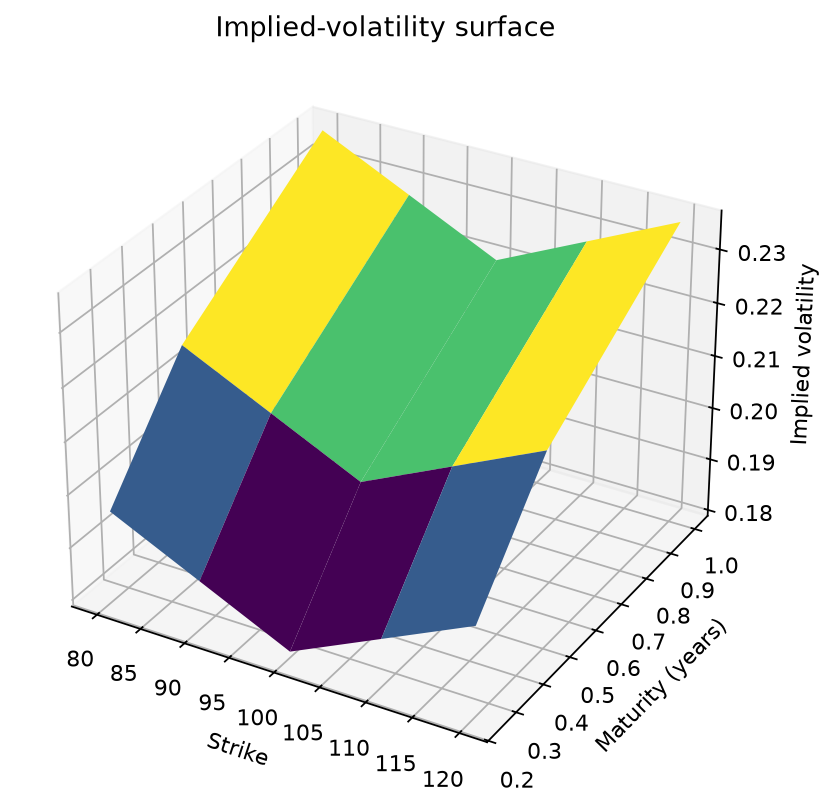
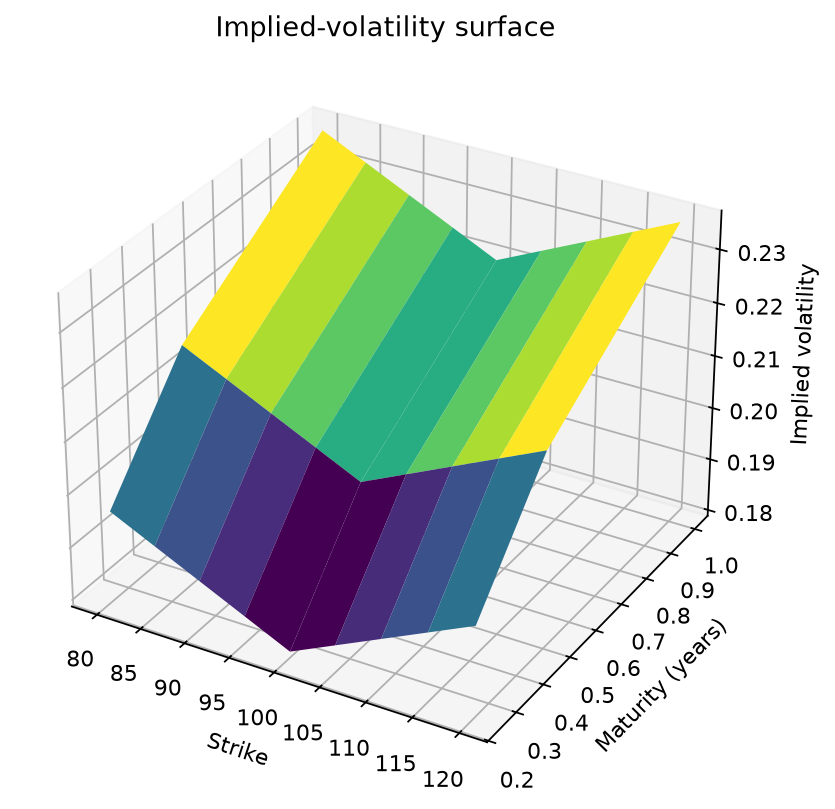
Increase implied volatility smile resolution

Changed region(s): [[0.218, 0.1854, 0.7784, 0.8035]]

diff --git a/examples/05_implied_volatility_smile.py b/examples/05_implied_volatility_smile.py
@@ -16,20 +16,21 @@ from options_pricer import (
 
 def main() -> None:
     spot = 100.0
+    strikes = tuple(range(80, 121, 5))
     rows = []
     for maturity, base_sigma in ((0.25, 0.18), (0.5, 0.20), (1.0, 0.22)):
-        for strike in (80.0, 90.0, 100.0, 110.0, 120.0):
+        for strike in strikes:
             sigma = base_sigma + 0.0008 * abs(strike - 100.0)
             option = EuropeanOption(
                 spot=spot,
-                strike=strike,
+                strike=float(strike),
                 maturity=maturity,
                 rate=0.03,
                 volatility=sigma,
             )
             rows.append(
                 {
-                    "strike": strike,
+                    "strike": float(strike),
                     "maturity": maturity,
                     "option_type": "call",
                     "price": black_scholes_price(option, "call"),
